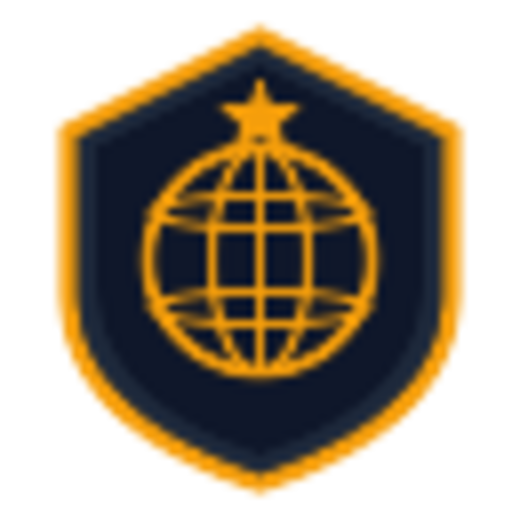
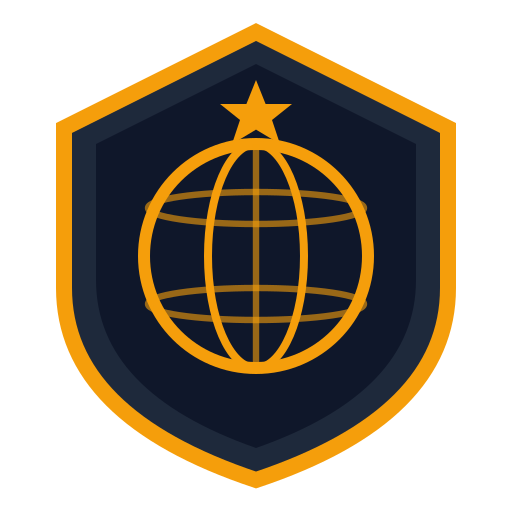
CG rebalance

Changed region(s): [[0.0938, 0.0312, 0.9375, 0.9688]]

diff --git a/app/game/discovery.py b/app/game/discovery.py
@@ -11,7 +11,7 @@ DEFAULT_LAND_WEIGHTS = {'cleared_land': 10, 'forest': 20, 'mountain': 20, 'river
 
 RESOURCE_WEIGHTS = {
     'Westberg': {
-        'apple_tree': 3, 'mulberry': 1, 'herbs': 3, 'tobacco_plant': 3, 'cotton': 3, 'oak_tree': 5, 'rubber_tree': 1,
+        'apple_tree': 5, 'mulberry': 1, 'herbs': 3, 'tobacco_plant': 3, 'cotton': 3, 'oak_tree': 5, 'rubber_tree': 1,
         'grapevine': 3, 'hops': 1, 'kingwood': 5, 'hemp': 3, 'beehive': 250, 'goat': 250, 'cow': 500, 'sheep': 250,
         'boar': 200, 'yak': 100, 'buffalo': 250, 'elephant': 100, 'fox': 250, 'clam': 500, 'shrimp': 500, 'bass': 500,
         'cod': 500, 'mackerel': 500, 'salmon': 500, 'piranha': 100, 'dolphin': 250, 'shark': 100, 'whale': 250,
@@ -20,7 +20,7 @@ RESOURCE_WEIGHTS = {
         'silicon': 300, 'crude_deep_sea_oil': 250
     },
     'Amarino': {
-        'apple_tree': 5, 'mulberry': 3, 'coffea': 5, 'herbs': 5, 'tobacco_plant': 5, 'cotton': 1, 'oak_tree': 3,
+        'apple_tree': 7, 'mulberry': 3, 'coffea': 5, 'herbs': 5, 'tobacco_plant': 5, 'cotton': 1, 'oak_tree': 3,
         'rubber_tree': 5, 'cocoa': 5, 'grapevine': 5, 'hops': 3, 'kingwood': 3, 'hemp': 3, 'beehive': 200, 'cow': 500,
         'sheep': 500, 'elephant': 100, 'fox': 500, 'panther': 500, 'clam': 500, 'shrimp': 500, 'bass': 500, 'cod': 500,
         'mackerel': 500, 'salmon': 500, 'piranha': 500, 'dolphin': 250, 'shark': 500, 'whale': 250, 'marble': 400,
@@ -28,7 +28,7 @@ RESOURCE_WEIGHTS = {
         'petroleum': 25, 'gemstone': 250, 'stonesilver': 299, 'silicon': 500, 'crude_deep_sea_oil': 25
     },
     'San Sebastian': {
-        'apple_tree': 1, 'cactus': 1, 'mulberry': 1, 'herbs': 3, 'tobacco_plant': 3, 'cotton': 3, 'oak_tree': 13,
+        'apple_tree': 5, 'cactus': 1, 'mulberry': 1, 'herbs': 3, 'tobacco_plant': 3, 'cotton': 3, 'oak_tree': 13,
         'rubber_tree': 1, 'grapevine': 3, 'hops': 5, 'kingwood': 13, 'hemp': 3, 'beehive': 100, 'goat': 100, 'cow': 250,
         'sheep': 250, 'boar': 150, 'yak': 75, 'buffalo': 250, 'elephant': 100, 'fox': 500, 'clam': 250, 'shrimp': 250,
         'bass': 250, 'cod': 250, 'mackerel': 250, 'salmon': 250, 'piranha': 250, 'dolphin': 100, 'shark': 250,
@@ -37,7 +37,7 @@ RESOURCE_WEIGHTS = {
         'silicon': 300, 'crude_deep_sea_oil': 25
     },
     'Tind': {
-        'apple_tree': 1, 'mulberry': 1, 'herbs': 1, 'cotton': 1, 'oak_tree': 1, 'grapevine': 1, 'hops': 1, 'kingwood': 3,
+        'apple_tree': 3, 'mulberry': 1, 'herbs': 1, 'cotton': 1, 'oak_tree': 1, 'grapevine': 1, 'hops': 1, 'kingwood': 3,
         'hemp': 1, 'goat': 500, 'cow': 250, 'sheep': 100, 'boar': 500, 'yak': 500, 'buffalo': 100, 'elephant': 100,
         'fox': 100, 'clam': 100, 'shrimp': 100, 'bass': 100, 'cod': 100, 'mackerel': 100, 'salmon': 100, 'dolphin': 50,
         'whale': 50, 'coal': 1000, 'iron': 1139, 'marble': 200, 'bauxite': 500, 'copper': 750, 'lead': 750, 'gold': 250,

diff --git a/app/game/population.py b/app/game/population.py
@@ -36,8 +36,8 @@ def get_population_effects(population):
     pop = population or 0
     effects = {}
     for res, rate in POPULATION_RATES.items():
-        if res == 'consumer_goods' and pop <= CG_POPULATION_THRESHOLD:
-            effects[res] = 0
+        if res == 'consumer_goods':
+            effects[res] = max((pop - CG_POPULATION_THRESHOLD) * rate, 0)
         else:
             effects[res] = pop * rate
     return effects